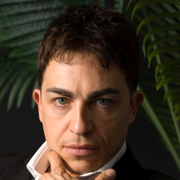
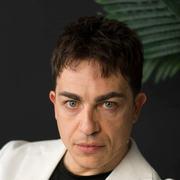
Nuova foto del sito: ritratto con giacca bianca
La foto in apertura è sostituita con il nuovo ritratto. Dallo stesso scatto
sono rifatti il logo tondo nella barra, l'icona della scheda del browser e
le icone per iPhone, Android e manifest, così il volto è lo stesso ovunque.

Il file della foto principale mantiene lo stesso nome (assets/mirko.jpg),
quindi anteprime social, dati strutturati e link esterni puntano già alla
foto nuova. Foto, logo e icone hanno un parametro di versione, per evitare
che il browser riproponga le immagini precedenti dalla propria memoria.

diff --git a/index.html b/index.html
@@ -25,19 +25,19 @@
 <meta property="og:type" content="profile" />
 <meta property="og:title" content="Mirko Rocci, Ph.D. — Physicist" />
 <meta property="og:description" content="Tecnologie quantistiche, superconduttività e nanotecnologie per lo spazio." />
-<meta property="og:image" content="https://mirkorocci.it/assets/mirko.jpg" />
+<meta property="og:image" content="https://mirkorocci.it/assets/mirko.jpg?v=2" />
 <meta property="og:url" content="https://mirkorocci.it/" />
 <meta property="og:site_name" content="Mirko Rocci" />
 <meta name="twitter:card" content="summary_large_image" />
 <meta name="twitter:title" content="Mirko Rocci, Ph.D. — Physicist" />
 <meta name="twitter:description" content="Quantum &amp; space technologies, superconductivity and nanotechnology." />
-<meta name="twitter:image" content="https://mirkorocci.it/assets/mirko.jpg" />
+<meta name="twitter:image" content="https://mirkorocci.it/assets/mirko.jpg?v=2" />
 
 <!-- ===== Icons / theme ===== -->
 <meta name="theme-color" content="#05060c" />
-<link rel="icon" href="favicon.ico" sizes="48x48" />
-<link rel="icon" href="favicon-96.png" type="image/png" sizes="96x96" />
-<link rel="apple-touch-icon" href="apple-touch-icon.png" />
+<link rel="icon" href="favicon.ico?v=2" sizes="48x48" />
+<link rel="icon" href="favicon-96.png?v=2" type="image/png" sizes="96x96" />
+<link rel="apple-touch-icon" href="apple-touch-icon.png?v=2" />
 <link rel="manifest" href="site.webmanifest" />
 
 <!-- ===== Fonts ===== -->
@@ -56,7 +56,7 @@
   "honorificSuffix": "Ph.D.",
   "jobTitle": "Physicist · Technologist",
   "url": "https://mirkorocci.it/",
-  "image": "https://mirkorocci.it/assets/mirko.jpg",
+  "image": "https://mirkorocci.it/assets/mirko.jpg?v=2",
   "sameAs": [
     "https://www.wikidata.org/wiki/Q60155165",
     "https://orcid.org/0000-0002-3907-5275",
@@ -88,7 +88,7 @@
 <!-- Navbar -->
 <header id="navbar">
   <a href="#hero" class="brand">
-    <img class="brand-photo" src="assets/brand/mirko-avatar.jpg" alt="" width="42" height="42" />
+    <img class="brand-photo" src="assets/brand/mirko-avatar.jpg?v=2" alt="" width="42" height="42" />
     <span class="brand-name">Mirko&nbsp;Rocci<span class="brand-dot">.</span></span>
   </a>
   <nav class="nav-links" id="nav-links" aria-label="Primary"><!--pre:nav-links--><a href="#about" data-en="About" data-es="Perfil" data-fr="Profil" data-it="Profilo">Profilo</a><a href="#news" data-en="News" data-es="Novedades" data-fr="Actus" data-it="Novità">Novità</a><a href="#research" data-en="Research" data-es="Investigación" data-fr="Recherche" data-it="Ricerca">Ricerca</a><a href="pubblicazioni.html" data-en="Publications" data-es="Publicaciones" data-fr="Publications" data-it="Pubblicazioni">Pubblicazioni</a><a href="#ventures" data-en="Ventures" data-es="Empresas" data-fr="Entreprises" data-it="Imprese">Imprese</a><a href="associazione-333.html" data-en="Association 3:33" data-es="Asociación 3:33" data-fr="Association 3:33" data-it="Associazione 3:33">Associazione 3:33</a><a href="inno99.html" data-en="Inno99" data-es="Inno99" data-fr="Inno99" data-it="Inno99">Inno99</a><a href="stampa.html" data-en="Press" data-es="Prensa" data-fr="Presse" data-it="Stampa">Stampa</a><a href="percorso.html" data-en="Career" data-es="Trayectoria" data-fr="Parcours" data-it="Percorso">Percorso</a><a href="#contact" class="nav-cta" data-en="Contact" data-es="Contacto" data-fr="Contact" data-it="Contatti">Contatti</a><div class="social-row social-menu"><a class="social-link" href="https://www.linkedin.com/in/mirko-rocci/" target="_blank" rel="noopener noreferrer me" title="LinkedIn" aria-label="LinkedIn">
@@ -148,7 +148,7 @@
     </div>
     <div class="hero-photo reveal">
       <div class="photo-glow"></div>
-      <div class="photo-frame"><img src="assets/mirko.jpg" alt="Mirko Rocci, Ph.D." width="540" height="720" /></div>
+      <div class="photo-frame"><img src="assets/mirko.jpg?v=2" alt="Mirko Rocci, Ph.D." width="540" height="720" /></div>
       <div class="photo-ring"></div>
     </div>
   </div>

diff --git a/pubblicazioni.html b/pubblicazioni.html
@@ -20,12 +20,12 @@
 <meta property="og:title" content="Pubblicazioni scientifiche — Mirko Rocci, Ph.D." />
 <meta property="og:description" content="Selezione delle pubblicazioni peer-reviewed di Mirko Rocci su superconduttività, dispositivi quantistici, spintronica e materiali 2D, pubblicate su Nature Materials, Nature Nanotechnology, Nano Letters e ACS Nano." />
 <meta property="og:url" content="https://mirkorocci.it/pubblicazioni.html" />
-<meta property="og:image" content="https://mirkorocci.it/assets/mirko.jpg" />
+<meta property="og:image" content="https://mirkorocci.it/assets/mirko.jpg?v=2" />
 <meta name="twitter:card" content="summary_large_image" />
 <meta name="theme-color" content="#05060c" />
-<link rel="icon" href="favicon.ico" sizes="48x48" />
-<link rel="icon" href="favicon-96.png" type="image/png" sizes="96x96" />
-<link rel="apple-touch-icon" href="apple-touch-icon.png" />
+<link rel="icon" href="favicon.ico?v=2" sizes="48x48" />
+<link rel="icon" href="favicon-96.png?v=2" type="image/png" sizes="96x96" />
+<link rel="apple-touch-icon" href="apple-touch-icon.png?v=2" />
 <link rel="manifest" href="site.webmanifest" />
 <link rel="preconnect" href="https://fonts.googleapis.com" />
 <link rel="preconnect" href="https://fonts.gstatic.com" crossorigin />
@@ -86,7 +86,7 @@
 <!-- Navbar -->
 <header id="navbar">
   <a href="#hero" class="brand">
-    <img class="brand-photo" src="assets/brand/mirko-avatar.jpg" alt="" width="42" height="42" />
+    <img class="brand-photo" src="assets/brand/mirko-avatar.jpg?v=2" alt="" width="42" height="42" />
     <span class="brand-name">Mirko&nbsp;Rocci<span class="brand-dot">.</span></span>
   </a>
   <nav class="nav-links" id="nav-links" aria-label="Primary"><!--pre:nav-links--><a href="./#about" data-en="About" data-es="Perfil" data-fr="Profil" data-it="Profilo">Profilo</a><a href="./#news" data-en="News" data-es="Novedades" data-fr="Actus" data-it="Novità">Novità</a><a href="./#research" data-en="Research" data-es="Investigación" data-fr="Recherche" data-it="Ricerca">Ricerca</a><a href="pubblicazioni.html" class="active-link" aria-current="page" data-en="Publications" data-es="Publicaciones" data-fr="Publications" data-it="Pubblicazioni">Pubblicazioni</a><a href="./#ventures" data-en="Ventures" data-es="Empresas" data-fr="Entreprises" data-it="Imprese">Imprese</a><a href="associazione-333.html" data-en="Association 3:33" data-es="Asociación 3:33" data-fr="Association 3:33" data-it="Associazione 3:33">Associazione 3:33</a><a href="inno99.html" data-en="Inno99" data-es="Inno99" data-fr="Inno99" data-it="Inno99">Inno99</a><a href="stampa.html" data-en="Press" data-es="Prensa" data-fr="Presse" data-it="Stampa">Stampa</a><a href="percorso.html" data-en="Career" data-es="Trayectoria" data-fr="Parcours" data-it="Percorso">Percorso</a><a href="./#contact" class="nav-cta" data-en="Contact" data-es="Contacto" data-fr="Contact" data-it="Contatti">Contatti</a><div class="social-row social-menu"><a class="social-link" href="https://www.linkedin.com/in/mirko-rocci/" target="_blank" rel="noopener noreferrer me" title="LinkedIn" aria-label="LinkedIn">

diff --git a/inno99.html b/inno99.html
@@ -20,12 +20,12 @@
 <meta property="og:title" content="Inno99, gli aperitivi dell&#x27;innovazione — Mirko Rocci" />
 <meta property="og:description" content="Inno99 è il ciclo di Innovalley co-ideato e curato da Mirko Rocci: Inno-Talks in formula aperitivo nel centro storico dell&#x27;Aquila e Inno-Podcast con gli ospiti. Rassegna stampa completa." />
 <meta property="og:url" content="https://mirkorocci.it/inno99.html" />
-<meta property="og:image" content="https://mirkorocci.it/assets/mirko.jpg" />
+<meta property="og:image" content="https://mirkorocci.it/assets/mirko.jpg?v=2" />
 <meta name="twitter:card" content="summary_large_image" />
 <meta name="theme-color" content="#05060c" />
-<link rel="icon" href="favicon.ico" sizes="48x48" />
-<link rel="icon" href="favicon-96.png" type="image/png" sizes="96x96" />
-<link rel="apple-touch-icon" href="apple-touch-icon.png" />
+<link rel="icon" href="favicon.ico?v=2" sizes="48x48" />
+<link rel="icon" href="favicon-96.png?v=2" type="image/png" sizes="96x96" />
+<link rel="apple-touch-icon" href="apple-touch-icon.png?v=2" />
 <link rel="manifest" href="site.webmanifest" />
 <link rel="preconnect" href="https://fonts.googleapis.com" />
 <link rel="preconnect" href="https://fonts.gstatic.com" crossorigin />
@@ -86,7 +86,7 @@
 <!-- Navbar -->
 <header id="navbar">
   <a href="#hero" class="brand">
-    <img class="brand-photo" src="assets/brand/mirko-avatar.jpg" alt="" width="42" height="42" />
+    <img class="brand-photo" src="assets/brand/mirko-avatar.jpg?v=2" alt="" width="42" height="42" />
     <span class="brand-name">Mirko&nbsp;Rocci<span class="brand-dot">.</span></span>
   </a>
   <nav class="nav-links" id="nav-links" aria-label="Primary"><!--pre:nav-links--><a href="./#about" data-en="About" data-es="Perfil" data-fr="Profil" data-it="Profilo">Profilo</a><a href="./#news" data-en="News" data-es="Novedades" data-fr="Actus" data-it="Novità">Novità</a><a href="./#research" data-en="Research" data-es="Investigación" data-fr="Recherche" data-it="Ricerca">Ricerca</a><a href="pubblicazioni.html" data-en="Publications" data-es="Publicaciones" data-fr="Publications" data-it="Pubblicazioni">Pubblicazioni</a><a href="./#ventures" data-en="Ventures" data-es="Empresas" data-fr="Entreprises" data-it="Imprese">Imprese</a><a href="associazione-333.html" data-en="Association 3:33" data-es="Asociación 3:33" data-fr="Association 3:33" data-it="Associazione 3:33">Associazione 3:33</a><a href="inno99.html" class="active-link" aria-current="page" data-en="Inno99" data-es="Inno99" data-fr="Inno99" data-it="Inno99">Inno99</a><a href="stampa.html" data-en="Press" data-es="Prensa" data-fr="Presse" data-it="Stampa">Stampa</a><a href="percorso.html" data-en="Career" data-es="Trayectoria" data-fr="Parcours" data-it="Percorso">Percorso</a><a href="./#contact" class="nav-cta" data-en="Contact" data-es="Contacto" data-fr="Contact" data-it="Contatti">Contatti</a><div class="social-row social-menu"><a class="social-link" href="https://www.linkedin.com/in/mirko-rocci/" target="_blank" rel="noopener noreferrer me" title="LinkedIn" aria-label="LinkedIn">

diff --git a/percorso.html b/percorso.html
@@ -20,12 +20,12 @@
 <meta property="og:title" content="Percorso, luoghi e riconoscimenti — Mirko Rocci, Ph.D." />
 <meta property="og:description" content="Il percorso di Mirko Rocci tra Italia, Spagna e Stati Uniti: formazione, ricerca al MIT e alla Scuola Normale Superiore, Thales Alenia Space, la mappa dei luoghi, le attività e i premi." />
 <meta property="og:url" content="https://mirkorocci.it/percorso.html" />
-<meta property="og:image" content="https://mirkorocci.it/assets/mirko.jpg" />
+<meta property="og:image" content="https://mirkorocci.it/assets/mirko.jpg?v=2" />
 <meta name="twitter:card" content="summary_large_image" />
 <meta name="theme-color" content="#05060c" />
-<link rel="icon" href="favicon.ico" sizes="48x48" />
-<link rel="icon" href="favicon-96.png" type="image/png" sizes="96x96" />
-<link rel="apple-touch-icon" href="apple-touch-icon.png" />
+<link rel="icon" href="favicon.ico?v=2" sizes="48x48" />
+<link rel="icon" href="favicon-96.png?v=2" type="image/png" sizes="96x96" />
+<link rel="apple-touch-icon" href="apple-touch-icon.png?v=2" />
 <link rel="manifest" href="site.webmanifest" />
 <link rel="preconnect" href="https://fonts.googleapis.com" />
 <link rel="preconnect" href="https://fonts.gstatic.com" crossorigin />
@@ -86,7 +86,7 @@
 <!-- Navbar -->
 <header id="navbar">
   <a href="#hero" class="brand">
-    <img class="brand-photo" src="assets/brand/mirko-avatar.jpg" alt="" width="42" height="42" />
+    <img class="brand-photo" src="assets/brand/mirko-avatar.jpg?v=2" alt="" width="42" height="42" />
     <span class="brand-name">Mirko&nbsp;Rocci<span class="brand-dot">.</span></span>
   </a>
   <nav class="nav-links" id="nav-links" aria-label="Primary"><!--pre:nav-links--><a href="./#about" data-en="About" data-es="Perfil" data-fr="Profil" data-it="Profilo">Profilo</a><a href="./#news" data-en="News" data-es="Novedades" data-fr="Actus" data-it="Novità">Novità</a><a href="./#research" data-en="Research" data-es="Investigación" data-fr="Recherche" data-it="Ricerca">Ricerca</a><a href="pubblicazioni.html" data-en="Publications" data-es="Publicaciones" data-fr="Publications" data-it="Pubblicazioni">Pubblicazioni</a><a href="./#ventures" data-en="Ventures" data-es="Empresas" data-fr="Entreprises" data-it="Imprese">Imprese</a><a href="associazione-333.html" data-en="Association 3:33" data-es="Asociación 3:33" data-fr="Association 3:33" data-it="Associazione 3:33">Associazione 3:33</a><a href="inno99.html" data-en="Inno99" data-es="Inno99" data-fr="Inno99" data-it="Inno99">Inno99</a><a href="stampa.html" data-en="Press" data-es="Prensa" data-fr="Presse" data-it="Stampa">Stampa</a><a href="percorso.html" class="active-link" aria-current="page" data-en="Career" data-es="Trayectoria" data-fr="Parcours" data-it="Percorso">Percorso</a><a href="./#contact" class="nav-cta" data-en="Contact" data-es="Contacto" data-fr="Contact" data-it="Contatti">Contatti</a><div class="social-row social-menu"><a class="social-link" href="https://www.linkedin.com/in/mirko-rocci/" target="_blank" rel="noopener noreferrer me" title="LinkedIn" aria-label="LinkedIn">

diff --git a/associazione-333.html b/associazione-333.html
@@ -20,12 +20,12 @@
 <meta property="og:title" content="Associazione 3:33 — Mirko Rocci" />
 <meta property="og:description" content="L&#x27;associazione culturale 3:33, fondata e presieduta da Mirko Rocci all&#x27;Aquila: Masterclass per gli studenti, progetti per la città e oltre cinquanta uscite sulla stampa." />
 <meta property="og:url" content="https://mirkorocci.it/associazione-333.html" />
-<meta property="og:image" content="https://mirkorocci.it/assets/mirko.jpg" />
+<meta property="og:image" content="https://mirkorocci.it/assets/mirko.jpg?v=2" />
 <meta name="twitter:card" content="summary_large_image" />
 <meta name="theme-color" content="#05060c" />
-<link rel="icon" href="favicon.ico" sizes="48x48" />
-<link rel="icon" href="favicon-96.png" type="image/png" sizes="96x96" />
-<link rel="apple-touch-icon" href="apple-touch-icon.png" />
+<link rel="icon" href="favicon.ico?v=2" sizes="48x48" />
+<link rel="icon" href="favicon-96.png?v=2" type="image/png" sizes="96x96" />
+<link rel="apple-touch-icon" href="apple-touch-icon.png?v=2" />
 <link rel="manifest" href="site.webmanifest" />
 <link rel="preconnect" href="https://fonts.googleapis.com" />
 <link rel="preconnect" href="https://fonts.gstatic.com" crossorigin />
@@ -86,7 +86,7 @@
 <!-- Navbar -->
 <header id="navbar">
   <a href="#hero" class="brand">
-    <img class="brand-photo" src="assets/brand/mirko-avatar.jpg" alt="" width="42" height="42" />
+    <img class="brand-photo" src="assets/brand/mirko-avatar.jpg?v=2" alt="" width="42" height="42" />
     <span class="brand-name">Mirko&nbsp;Rocci<span class="brand-dot">.</span></span>
   </a>
   <nav class="nav-links" id="nav-links" aria-label="Primary"><!--pre:nav-links--><a href="./#about" data-en="About" data-es="Perfil" data-fr="Profil" data-it="Profilo">Profilo</a><a href="./#news" data-en="News" data-es="Novedades" data-fr="Actus" data-it="Novità">Novità</a><a href="./#research" data-en="Research" data-es="Investigación" data-fr="Recherche" data-it="Ricerca">Ricerca</a><a href="pubblicazioni.html" data-en="Publications" data-es="Publicaciones" data-fr="Publications" data-it="Pubblicazioni">Pubblicazioni</a><a href="./#ventures" data-en="Ventures" data-es="Empresas" data-fr="Entreprises" data-it="Imprese">Imprese</a><a href="associazione-333.html" class="active-link" aria-current="page" data-en="Association 3:33" data-es="Asociación 3:33" data-fr="Association 3:33" data-it="Associazione 3:33">Associazione 3:33</a><a href="inno99.html" data-en="Inno99" data-es="Inno99" data-fr="Inno99" data-it="Inno99">Inno99</a><a href="stampa.html" data-en="Press" data-es="Prensa" data-fr="Presse" data-it="Stampa">Stampa</a><a href="percorso.html" data-en="Career" data-es="Trayectoria" data-fr="Parcours" data-it="Percorso">Percorso</a><a href="./#contact" class="nav-cta" data-en="Contact" data-es="Contacto" data-fr="Contact" data-it="Contatti">Contatti</a><div class="social-row social-menu"><a class="social-link" href="https://www.linkedin.com/in/mirko-rocci/" target="_blank" rel="noopener noreferrer me" title="LinkedIn" aria-label="LinkedIn">

diff --git a/stampa.html b/stampa.html
@@ -20,12 +20,12 @@
 <meta property="og:title" content="Rassegna stampa — Mirko Rocci, Ph.D." />
 <meta property="og:description" content="Articoli, servizi TV e interviste su Mirko Rocci: ricerca e innovazione spaziale, Inno99 e Associazione 3:33. Archivio completo con filtri per argomento." />
 <meta property="og:url" content="https://mirkorocci.it/stampa.html" />
-<meta property="og:image" content="https://mirkorocci.it/assets/mirko.jpg" />
+<meta property="og:image" content="https://mirkorocci.it/assets/mirko.jpg?v=2" />
 <meta name="twitter:card" content="summary_large_image" />
 <meta name="theme-color" content="#05060c" />
-<link rel="icon" href="favicon.ico" sizes="48x48" />
-<link rel="icon" href="favicon-96.png" type="image/png" sizes="96x96" />
-<link rel="apple-touch-icon" href="apple-touch-icon.png" />
+<link rel="icon" href="favicon.ico?v=2" sizes="48x48" />
+<link rel="icon" href="favicon-96.png?v=2" type="image/png" sizes="96x96" />
+<link rel="apple-touch-icon" href="apple-touch-icon.png?v=2" />
 <link rel="manifest" href="site.webmanifest" />
 <link rel="preconnect" href="https://fonts.googleapis.com" />
 <link rel="preconnect" href="https://fonts.gstatic.com" crossorigin />
@@ -86,7 +86,7 @@
 <!-- Navbar -->
 <header id="navbar">
   <a href="#hero" class="brand">
-    <img class="brand-photo" src="assets/brand/mirko-avatar.jpg" alt="" width="42" height="42" />
+    <img class="brand-photo" src="assets/brand/mirko-avatar.jpg?v=2" alt="" width="42" height="42" />
     <span class="brand-name">Mirko&nbsp;Rocci<span class="brand-dot">.</span></span>
   </a>
   <nav class="nav-links" id="nav-links" aria-label="Primary"><!--pre:nav-links--><a href="./#about" data-en="About" data-es="Perfil" data-fr="Profil" data-it="Profilo">Profilo</a><a href="./#news" data-en="News" data-es="Novedades" data-fr="Actus" data-it="Novità">Novità</a><a href="./#research" data-en="Research" data-es="Investigación" data-fr="Recherche" data-it="Ricerca">Ricerca</a><a href="pubblicazioni.html" data-en="Publications" data-es="Publicaciones" data-fr="Publications" data-it="Pubblicazioni">Pubblicazioni</a><a href="./#ventures" data-en="Ventures" data-es="Empresas" data-fr="Entreprises" data-it="Imprese">Imprese</a><a href="associazione-333.html" data-en="Association 3:33" data-es="Asociación 3:33" data-fr="Association 3:33" data-it="Associazione 3:33">Associazione 3:33</a><a href="inno99.html" data-en="Inno99" data-es="Inno99" data-fr="Inno99" data-it="Inno99">Inno99</a><a href="stampa.html" class="active-link" aria-current="page" data-en="Press" data-es="Prensa" data-fr="Presse" data-it="Stampa">Stampa</a><a href="percorso.html" data-en="Career" data-es="Trayectoria" data-fr="Parcours" data-it="Percorso">Percorso</a><a href="./#contact" class="nav-cta" data-en="Contact" data-es="Contacto" data-fr="Contact" data-it="Contatti">Contatti</a><div class="social-row social-menu"><a class="social-link" href="https://www.linkedin.com/in/mirko-rocci/" target="_blank" rel="noopener noreferrer me" title="LinkedIn" aria-label="LinkedIn">

diff --git a/nanoinnovation-2026.html b/nanoinnovation-2026.html
@@ -21,9 +21,9 @@
 <meta name="twitter:title" content="NanoInnovation 2026 — le foto della settimana alla Sapienza">
 <meta name="twitter:description" content="Il forum Thales Alenia Space e Leonardo, il talk su nanomateriali e dispositivi quantistici, la sessione ENEA e il panel sulla supply chain spaziale europea.">
 <meta name="twitter:image" content="https://mirkorocci.it/assets/nanoinnovation/09-foto-di-gruppo.jpg">
-<link rel="icon" href="favicon.ico" sizes="48x48" />
-<link rel="icon" href="favicon-96.png" type="image/png" sizes="96x96" />
-<link rel="apple-touch-icon" href="apple-touch-icon.png" />
+<link rel="icon" href="favicon.ico?v=2" sizes="48x48" />
+<link rel="icon" href="favicon-96.png?v=2" type="image/png" sizes="96x96" />
+<link rel="apple-touch-icon" href="apple-touch-icon.png?v=2" />
 <script type="application/ld+json">
 {
   "@context": "https://schema.org",

diff --git a/inno-talks-2.html b/inno-talks-2.html
@@ -21,9 +21,9 @@
 <meta name="twitter:title" content="Inno Talks #2, com'è andata «Dalla ricerca al prodotto»">
 <meta name="twitter:description" content="La diretta integrale, le foto e il resoconto del secondo Inno Talk di Inno99 all'Aquila.">
 <meta name="twitter:image" content="https://mirkorocci.it/assets/inno-talks-2/sala.jpg">
-<link rel="icon" href="favicon.ico" sizes="48x48" />
-<link rel="icon" href="favicon-96.png" type="image/png" sizes="96x96" />
-<link rel="apple-touch-icon" href="apple-touch-icon.png" />
+<link rel="icon" href="favicon.ico?v=2" sizes="48x48" />
+<link rel="icon" href="favicon-96.png?v=2" type="image/png" sizes="96x96" />
+<link rel="apple-touch-icon" href="apple-touch-icon.png?v=2" />
 <script type="application/ld+json">
 {
   "@context": "https://schema.org",
